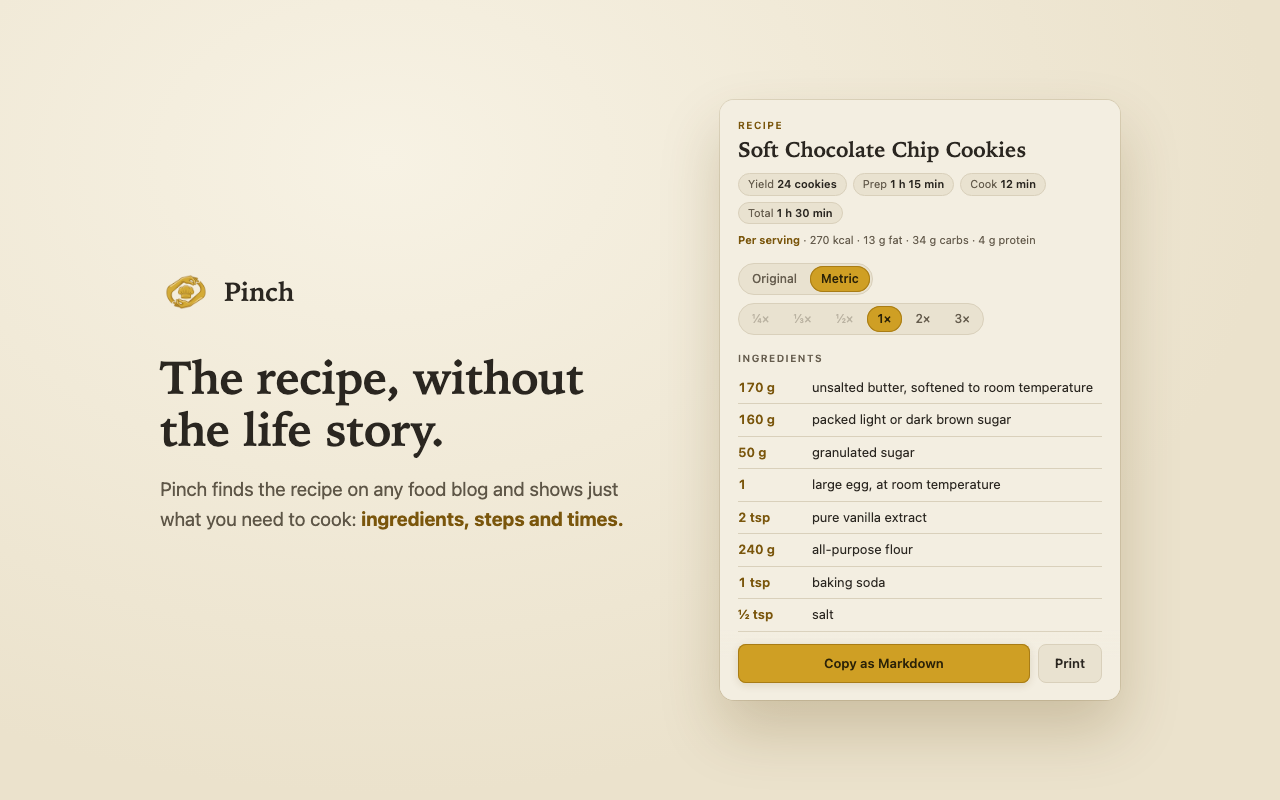
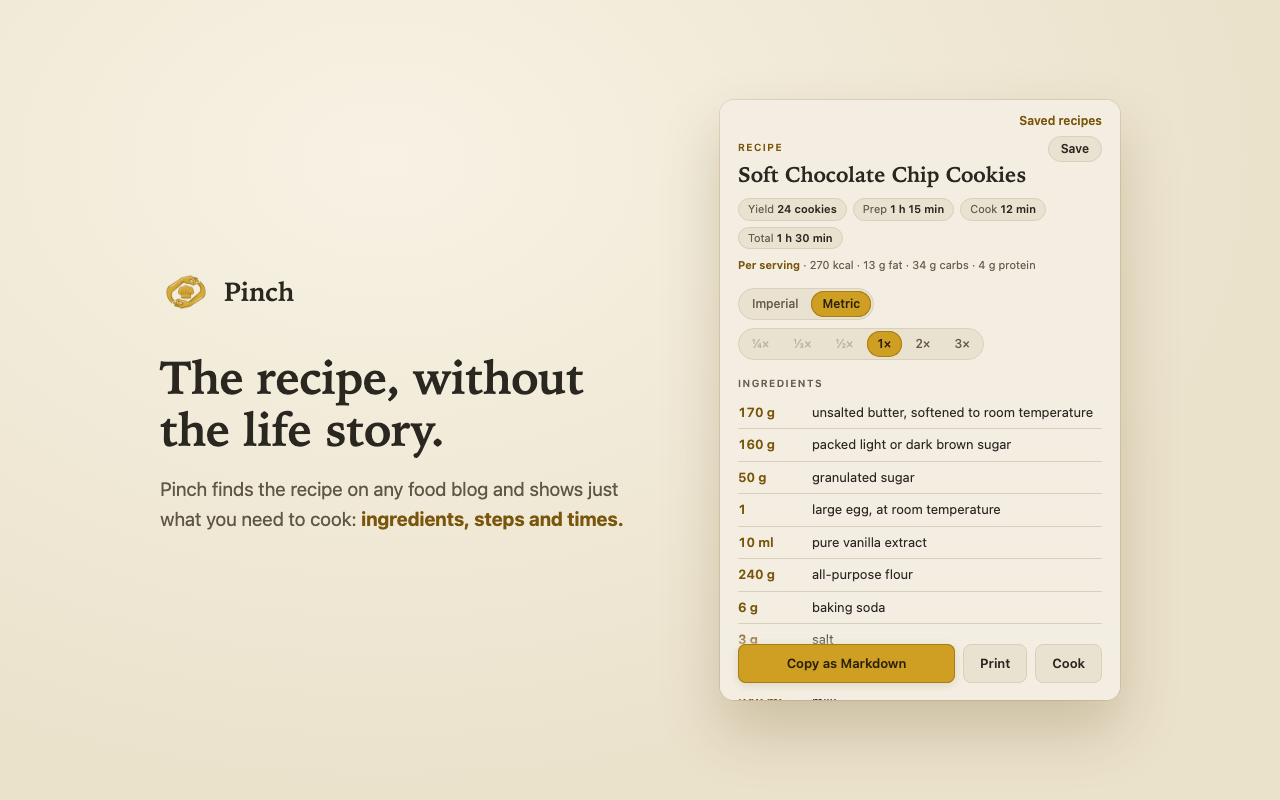
Release 1.1.0
Version bump and new store description; privacy policy covers saved
recipes, timers, alarms and the optional notifications permission;
publishing guide gains the 1.1 update checklist, listing copy, permission
justifications and update steps; README and roadmap updated; screenshots
regenerated with a new Cook mode shot.

Changed region(s): [[0.5625, 0.1562, 0.8438, 0.875], [0.7812, 0.125, 0.875, 0.1875]]

diff --git a/store/screenshots/compose.html b/store/screenshots/compose.html
@@ -59,6 +59,7 @@
     .sheet { width: 520px; height: 600px; border-radius: 6px; overflow: hidden; background: #fff; box-shadow: 0 30px 60px rgba(92, 66, 10, 0.2), 0 0 0 1px rgba(92, 66, 10, 0.12); }
     .sheet iframe { width: 800px; height: 923px; border: 0; transform: scale(0.65); transform-origin: 0 0; }
     .dark { color-scheme: dark; background: #171b18; }
+    .browser .cook { width: 1375px; height: 642px; transform: scale(0.8); transform-origin: 0 0; }
   </style>
 </head>
 <body>
@@ -72,10 +73,10 @@
   </section>
 
   <section class="shot stack" data-shot="2">
-    <h1>Metric that knows its ingredients</h1>
-    <p class="sub">A cup of flour is 120 g, a cup of sugar 200 g, and °F becomes °C. Anything it can't convert reliably stays as written.</p>
+    <h1>Imperial or metric, every line</h1>
+    <p class="sub">A cup of flour is 120 g, a tablespoon of butter 14 g, 350°F is 175°C, and back again. Anything it can't convert reliably stays as written.</p>
     <div class="shot-duo" style="display:flex; gap:48px;">
-      <div class="col"><div class="label">Original</div><div class="popup" style="height:470px"><iframe src="../../tests/harness.html?bare=1"></iframe></div></div>
+      <div class="col"><div class="label">Imperial</div><div class="popup" style="height:470px"><iframe src="../../tests/harness.html?bare=1&system=imperial"></iframe></div></div>
       <div class="col"><div class="label">Metric</div><div class="popup" style="height:470px"><iframe src="../../tests/harness.html?bare=1&system=metric"></iframe></div></div>
     </div>
   </section>
@@ -113,6 +114,18 @@
         <p class="sub">A clean recipe sheet with checkboxes, Markdown for Notion or Obsidian, and a dark mode for late-night baking.</p>
       </div>
       <div class="popup dark" style="height:330px"><iframe class="dark" src="../../tests/harness.html?bare=1"></iframe></div>
+    </div>
+  </section>
+
+  <section class="shot stack" data-shot="6">
+    <h1>Cook mode, with timers that follow you</h1>
+    <p class="sub">One step at a time, ingredients to tick off, and a one-tap timer for every time in a step. It floats above your other tabs and chimes when it's done.</p>
+    <div class="browser">
+      <div class="bar">
+        <div class="dots"><i></i><i></i><i></i></div>
+        <div class="url">Pinch · Cook mode</div>
+      </div>
+      <iframe class="cook" src="../../tests/cook-harness.html?demo=1"></iframe>
     </div>
   </section>
 

diff --git a/store/PUBLISHING.md b/store/PUBLISHING.md
@@ -7,14 +7,22 @@ Fields marked **⚠ TODO** need a value only you can supply. Account setup (deve
 
 ## 1. Pre-submit checklist
 
+### 1.1 update (submitted as an update to the existing 1.0 listing)
+
+- [x] `manifest.json` version `1.1.0`; manifest description matches the short description below
+- [x] New permissions: `alarms` (no install warning). `notifications` is in `optional_permissions` and requested on the first timer start, so existing users are not disabled by a new-permission warning on update
+- [x] `node tests/test.mjs` and `node tests/corpus.mjs` green
+- [x] Screenshots regenerated (`bash store/screenshots/capture.sh`), including the new `06-cook-mode.png`
+- [x] Smoke-tested in Chrome 148 with a fresh profile: live recipe page detected with ingredient sections, Imperial/Metric both convert every line, Cook mode timer opens the floating window, background worker runs without the notifications permission, field logging off
+- [x] `PRIVACY.md` updated for saved recipes, timers, alarms and notifications
+- [ ] `PRIVACY.md` pushed to GitHub (the store links to the public copy)
+- [ ] Hands-on run through on your own machine: Cook mode timer with sound, "Back to recipe", the notification, saving and reopening a recipe
+- [ ] `bash store/package.sh` produces `dist/pinch.zip` from the merged `main`
+
+### 1.0 (first submission, kept for reference)
+
 - [x] Final name chosen: **Pinch — Clean Recipes & Metric Converter**
 - [x] Icons added (16/32 px chef hat, 48/128 px full emblem; rebuild with `python3 store/brand/make_icons.py`)
-- [x] `manifest.json` version `1.0.0`
-- [x] Screenshots ready (1280×800, RGB) in `store/screenshots/`; regenerate with `bash store/screenshots/capture.sh`
-- [x] `node tests/test.mjs` and `node tests/corpus.mjs` green
-- [x] `bash store/package.sh` produces `dist/pinch.zip`
-- [ ] Unzipped build loaded via "Load unpacked" and smoke-tested on two or three recipe sites
-- [ ] Field logging confirmed off in a fresh profile (popup shows no "Field log" footer)
 - [x] Repo public on GitHub, `PRIVACY.md` reachable at its public URL
 
 ---
@@ -26,39 +34,43 @@ Fields marked **⚠ TODO** need a value only you can supply. Account setup (deve
 Pinch — Clean Recipes & Metric Converter
 ```
 
-**Summary / short description** (≤ 132 chars, currently 118)
+**Summary / short description** (≤ 132 chars, currently 132; keep identical to the manifest `description`)
 ```
-Pull the clean recipe out of any food blog. Convert to metric, scale to measurable amounts, print or copy. 100% local.
+Pull the clean recipe out of any food blog. Imperial or metric, measurable scaling, cook mode with timers, saved recipes. All local.
 ```
 
 **Category:** Lifestyle → Household (fallback: Productivity → Tools)
 
 **Detailed description**
 ```
-Food blogs bury the recipe under life stories, ads and pop-ups. This extension finds the recipe on the page and shows just what you need to cook: ingredients, steps, times and servings.
+Food blogs bury the recipe under life stories, ads and pop-ups. Pinch finds the recipe on the page and shows just what you need to cook: ingredients, steps, times and servings.
 
 HOW IT WORKS
 Open a recipe page and a small "Recipe found" note appears. Click it, or the toolbar icon, to see the clean recipe.
 
 FEATURES
-• Metric conversion that knows ingredients: 1 cup of flour is 120 g, 1 cup of sugar is 200 g, liquids become ml, °F becomes °C (including ranges like 350–375°F)
+• Imperial or metric, every line: each recipe opens in the units it mostly uses, and one click converts everything to the other system, including recipes that mix cups and grams
+• Conversion that knows ingredients: 1 cup of flour is 120 g, 1 tablespoon of butter is 14 g, liquids become ml or cups, and °F and °C convert both ways (ranges included)
 • Honest conversions: anything it can't convert reliably is left exactly as written rather than guessed
-• Scale from ¼× to 3×. Smaller batches are only offered when every ingredient stays measurable: no "⅓ of an egg", no "⅓ teaspoon"
-• Ingredient groups (like "For the frosting") kept intact
+• Scale from ¼× to 3×. Smaller batches are only offered when every ingredient stays measurable: no "⅓ of an egg"
+• Cook mode: a full-page view with one step at a time, ingredients to tick off, and the screen kept awake
+• Step timers: every time in a step ("bake 11–12 minutes", "chill 1 hour") becomes a one-tap timer. Timers float above your other tabs, chime when done, and can notify you
+• Saved recipes: keep the ones you love and open them again from the toolbar or Cook mode, with search
+• Ingredient groups (like "For the frosting" or "Sourdough variation") kept intact
 • Per-serving nutrition when the site publishes it
 • Print a clean recipe sheet or save it as a PDF
 • Copy as Markdown with checkboxes, ready to paste into Notion, Obsidian or a notes app
 • Light and dark mode
 
 PRIVACY
-100% local. No accounts, no servers, no analytics, no tracking. The extension makes no network requests at all. Recipes are read and converted on your device and never sent anywhere.
+100% local. No accounts, no servers, no analytics, no tracking. The extension makes no network requests at all. Recipes are read and converted on your device, and saved recipes stay on your device.
 
 Free and open source (MIT).
 ```
 
 **Single-purpose description** (required)
 ```
-The extension detects the recipe on the web page the user is viewing and presents a clean version of it (ingredients, steps, times), with optional metric conversion, scaling, printing and copying. All processing is local to the device.
+The extension detects the recipe on the web page the user is viewing and presents a clean version of it (ingredients, steps, times) for cooking, with unit conversion, scaling, a step-by-step cook mode with timers, saving, printing and copying. All processing is local to the device.
 ```
 
 ---
@@ -79,7 +91,17 @@ Recipes are published on thousands of different websites, so the content script 
 
 - **storage:**
 ```
-Used to pass the selected recipe from the popup to the extension's print page, where it is deleted immediately after being read. The code also contains a developer diagnostics log that is off by default and cannot be enabled from the user interface; if a developer turns it on, it stays in local storage. No data is synced or sent off the device.
+Keeps the user's data on the device only: recipes the user chooses to save, the recipe currently open in Cook mode (so it survives a reload), running cooking timers (label and end time), and a short-lived hand-off of the recipe to the print page. The code also contains a developer diagnostics log that is off by default and cannot be enabled from the user interface. Nothing is synced or sent off the device.
+```
+
+- **alarms:**
+```
+Used for the cooking timers the user starts in Cook mode, so a timer still finishes on time when the popup and the Cook mode tab are closed or in the background. No other scheduled work is done.
+```
+
+- **notifications** (optional permission, requested only when the user starts their first timer):
+```
+Used only to show a "Time's up" notification when a cooking timer the user started finishes. It is an optional permission requested at that moment; timers keep working inside Cook mode if the user declines.
 ```
 
 - **clipboardWrite:**
@@ -89,7 +111,7 @@ Used only when the user clicks "Copy as Markdown" to place the formatted recipe 
 
 - **Notes for the reviewer** (optional; use if the dashboard offers a test-instructions or notes field, or when replying to a reviewer question):
 ```
-No account or setup is needed. To test: open any recipe page (for example a food blog post with a recipe card), wait for the "Recipe found" note in the top-right corner or click the toolbar icon, and the popup shows the extracted recipe. The Original/Metric toggle converts units, the ¼×–3× buttons scale the recipe, Print opens a printable page, and Copy as Markdown copies the recipe. All processing happens locally in the content script and popup; the extension makes no network requests. Source code: https://github.com/nejc-katlab/pinch
+No account or setup is needed. To test: open any recipe page (for example a food blog post with a recipe card), wait for the "Recipe found" note in the top-right corner or click the toolbar icon, and the popup shows the extracted recipe. The Imperial/Metric toggle converts units, the ¼×–3× buttons scale the recipe, Save keeps it under "Saved recipes", Print opens a printable page, and Copy as Markdown copies the recipe. Cook opens a full-page cook mode; pressing a timer card there starts a timer, opens a small always-on-top timer window, and asks for the optional notifications permission once. All processing happens locally; the extension makes no network requests. Source code: https://github.com/nejc-katlab/pinch
 ```
 
 ---
@@ -115,15 +137,25 @@ https://github.com/nejc-katlab/pinch/blob/main/PRIVACY.md
 - **Icon 128×128**: `icons/icon128.png`
 - **Screenshots** (upload in this order; the first is the listing's lead image):
   1. `01-clean-recipe.png` — the clean popup
-  2. `02-metric.png` — Original vs Metric side by side
+  2. `02-metric.png` — Imperial vs Metric side by side
   3. `03-measurable-scaling.png` — ¼× crêpes, ⅓× switched off
   4. `04-auto-detect.png` — the "Recipe found" note on a (fictional) food blog
   5. `05-print-and-dark.png` — print sheet and dark mode
+  6. `06-cook-mode.png` — Cook mode with step timers (new in 1.1)
 - **Small promo tile 440×280**: optional
 
 ---
 
-## 6. Submit (you)
+## 6. Submit the 1.1 update (you)
+
+If 1.0 was never submitted, skip this section and follow §7 with the 1.1 package and the 1.1 copy above.
+
+1. Dashboard → **Pinch** → **Package** → **Upload new package** → `dist/pinch.zip` (version 1.1.0)
+2. **Store listing:** replace the short and detailed descriptions with §2, and upload the screenshots in the order in §5 (replace 02, add 06)
+3. **Privacy practices:** update the storage justification and add the alarms and notifications justifications from §3; the data-usage answers in §4 are unchanged
+4. **Submit for review.** Existing users update automatically once approved; `alarms` shows no warning and `notifications` is optional, so nobody is disabled by the update
+
+## 7. First submission (1.0, done)
 
 1. Dashboard → **Add new item** → upload `dist/pinch.zip`
 2. Paste the copy from §2 and the justifications from §3

diff --git a/ROADMAP.md b/ROADMAP.md
@@ -12,6 +12,14 @@ Status key: ✅ done · 🔄 in progress · ⬜ planned · 🔒 gated on evidenc
 - ✅ Popup UI (light/dark), in-page detection pill + badge, print / save-as-PDF sheet, copy-as-Markdown
 - ✅ Test infrastructure: unit + auto-generated collision suite, golden corpus, live-page audit, sitemap crawler (1000-recipe battle test), field-log telemetry with export
 
+## Shipped (1.1)
+
+- ✅ Cook mode: full-page reader, checkable ingredients, step-by-step focus, screen wake-lock, unit and scale controls, Save / Copy as Markdown / Print
+- ✅ Step-duration timers: durations detected in step text, one-tap timers that survive closing the tab (alarms + optional notification), Picture-in-Picture timer window with "Back to recipe", scheduled chime
+- ✅ Saved recipes: local library with search, reachable from the popup and Cook mode (chrome.storage.local; sync's ~100 KB quota is too small for a library)
+- ✅ Imperial/Metric toggle replaces Original/Metric: recipe opens in its dominant system, every line converts both ways, tbsp/tsp convert in metric, °C↔°F
+- ✅ Tasty Recipes ingredient groups; temperatures in ingredient lines; bare "350 degrees" / ℉ / º handled
+
 ## Now — validation loop
 
 - 🔄 Continue field test drive; export and analyze the log periodically; fold every miss into `tests/corpus.json`
@@ -21,21 +29,20 @@ Status key: ✅ done · 🔄 in progress · ⬜ planned · 🔒 gated on evidenc
 ## Store readiness (v1 release)
 
 - ✅ Gate field logging behind an off-by-default developer toggle
-- ⬜ Extension icons (required for listing)
-- ⬜ Name check on the Chrome Web Store; keep the name/icon as the brand
-- ⬜ Privacy policy page ("all processing is local, no data collected")
-- ⬜ Screenshots and listing copy; developer registration
+- ✅ Extension icons (required for listing)
+- ✅ Name check on the Chrome Web Store; keep the name/icon as the brand
+- ✅ Privacy policy page ("all processing is local, no data collected")
+- ✅ Screenshots and listing copy; developer registration
 - ⬜ Publish unlisted first, self-install from the store for a week, then go public
 - ⬜ Pill design refinements (size, icon, expand-on-hover) as desired
 
 ## v1.5 — features in order of value
 
-- ⬜ **Cook mode**: full-page reader view, checkable ingredients, step-by-step focus, screen wake-lock
-  - ⬜ **Step-duration timers**: detect durations in instruction text ("chill for at least 1 hour", "bake for 11–12 minutes", "rest 10 minutes") and offer tap-to-start timers per step; surface rest/chill time that lives only in the prose and not in the prep/cook metadata
-- ⬜ Save/library: local storage of extracted recipes with search (chrome.storage sync)
+- ⬜ Surface rest/chill time that lives only in step prose (not in the prep/cook metadata) as a total "hands-off time" in the header
+- ⬜ Saved-recipe export/import (JSON) so a library survives a new machine without cloud sync
 - ⬜ Grocery export adapters behind one interface: Things URL scheme, Todoist, Notion API (internal-integration token first, OAuth later)
 - ⬜ Multi-recipe merged grocery list (sum shared ingredients across selected saved recipes)
-- ⬜ Ingredient groups for more recipe plugins (Tasty Recipes, Create, others as the field log reveals them)
+- ⬜ Ingredient groups for more recipe plugins (Create, others as the field log reveals them); WPRM and Tasty Recipes done
 - ⬜ QR code linking to the source on the print sheet
 
 ## Translation & i18n

diff --git a/PRIVACY.md b/PRIVACY.md
@@ -1,6 +1,6 @@
 # Pinch — Privacy Policy
 
-_Last updated: 23 September 2026_
+_Last updated: 27 October 2026_
 
 **Short version: Pinch collects nothing, sends nothing, and has no servers. Recipes are read and converted entirely in your browser, on your device.**
 
@@ -14,9 +14,12 @@ To find a recipe, the extension looks at the structured recipe data that recipe 
 
 ## What is stored on your device
 
-The extension uses `chrome.storage.local` only for short-lived working data, and nothing in it ever leaves your device:
+The extension uses `chrome.storage.local` for the following, and nothing in it ever leaves your device:
 
-- When you press **Print**, the recipe you are printing is handed to the print page through local storage and deleted as soon as that page opens.
+- **Saved recipes:** when you press **Save**, that recipe (its name, ingredients, steps, times and the address of the page it came from) is kept on your device so you can open it again from **Saved recipes**. It stays until you remove it or uninstall the extension.
+- **Cook mode:** the recipe you last opened in Cook mode, with your chosen units and scale, so the page survives a reload.
+- **Timers:** each running timer's label, recipe name and end time, so it keeps counting when you close the popup or switch tabs. A timer is removed when you dismiss or cancel it.
+- **Print:** the recipe you are printing is handed to the print page and deleted as soon as that page opens.
 - A developer diagnostics mode exists for testing conversion accuracy. It is **off by default** and cannot be switched on from the extension's interface. Only if a developer deliberately enables it does it keep a local log of detected recipe pages (their URLs and how each ingredient line was converted). That log stays on the device and is never transmitted.
 
 ## What we do not do
@@ -26,6 +29,10 @@ The extension uses `chrome.storage.local` only for short-lived working data, and
 - We do not use analytics, telemetry, tracking, cookies, or advertising.
 - We do not sell or share data with anyone.
 
+## Notifications
+
+Pinch asks for permission to show notifications the first time you start a timer. If you allow it, the only notification it ever shows is "Time's up" when one of your timers finishes. If you decline, timers still work inside Cook mode. You can change this at any time in Chrome's extension settings.
+
 ## Clipboard
 
 **Copy as Markdown** writes the recipe to your clipboard only when you press the button. The extension never reads your clipboard.
@@ -33,7 +40,9 @@ The extension uses `chrome.storage.local` only for short-lived working data, and
 ## Permissions
 
 - **Access to web pages (content script on http/https sites):** needed to detect recipes on whatever recipe site you visit. Used only to read recipe content locally, never to collect or transmit it.
-- **storage:** hands a recipe to the print page and keeps local working data as described above.
+- **storage:** keeps saved recipes, the Cook mode recipe, running timers and print hand-offs on your device, as described above.
+- **alarms:** lets a timer finish on time even when the popup and Cook mode are closed.
+- **notifications (optional, asked for when you first start a timer):** shows "Time's up" when a timer finishes.
 - **clipboardWrite:** lets the Copy button place the recipe on your clipboard.
 
 ## Contact

diff --git a/README.md b/README.md
@@ -1,12 +1,14 @@
 # Pinch
 
-A Chrome extension that pulls the clean recipe out of any food blog, converts it to metric, scales it to amounts you can actually measure, and lets you print it or copy it as Markdown. Everything runs locally. The extension makes no network requests.
+A Chrome extension that pulls the clean recipe out of any food blog, shows it in imperial or metric, scales it to amounts you can actually measure, and gives you a cook mode with step timers. Save the recipes you like, print them, or copy them as Markdown. Everything runs locally. The extension makes no network requests.
 
 ## What it does
 
-- Detects recipes from schema.org JSON-LD, microdata, or ingredient/instruction headings, including WP Recipe Maker ingredient groups and Jetpack recipe cards
-- Converts cups to grams using a density table of about 180 ingredients, and °F to °C (ranges included), leaving anything it can't convert reliably untouched
+- Detects recipes from schema.org JSON-LD, microdata, or ingredient/instruction headings, including WP Recipe Maker and Tasty Recipes ingredient groups and Jetpack recipe cards
+- Opens each recipe in the unit system most of its ingredient lines use and converts every line to imperial or metric, using a density table of about 190 ingredients; °F and °C convert both ways (ranges included), and anything it can't convert reliably is left untouched
 - Scales ¼× to 3×, offering a fraction only when every ingredient stays measurable with real spoons, a scale, or whole items
+- Cook mode: one step at a time, checkable ingredients, screen wake lock, and one-tap timers for every duration in a step; timers survive closing the tab, float above other tabs in a Picture-in-Picture window, chime when done, and can send a notification
+- Saved recipes, stored locally, browsable and searchable from the popup and from Cook mode
 - Shows per-serving nutrition when the site publishes it
 - Prints a clean recipe sheet (or saves it as PDF) and copies the recipe as Markdown with checkboxes
 
@@ -29,7 +31,7 @@ node tests/crawl.mjs 5
 - `audit.mjs` fetches live recipe pages and prints how each line parsed and converted
 - `crawl.mjs` samples recipe pages from site sitemaps and checks invariants (argument: pages per site)
 
-The popup and print sheet can be previewed without installing the extension by serving the folder over HTTP and opening `tests/harness.html` or `tests/print-harness.html`.
+The popup, print sheet and Cook mode can be previewed without installing the extension by serving the folder over HTTP and opening `tests/harness.html`, `tests/print-harness.html` or `tests/cook-harness.html`.
 
 ## Developer diagnostics
 
@@ -47,7 +49,7 @@ Conversion fixes are most useful with a failing line added to `tests/corpus.json
 
 ## Privacy
 
-See [PRIVACY.md](PRIVACY.md). In short: no data is collected, stored remotely, or transmitted.
+See [PRIVACY.md](PRIVACY.md). In short: no data is collected, stored remotely, or transmitted. Saved recipes and timers stay on your device.
 
 ## License
 
